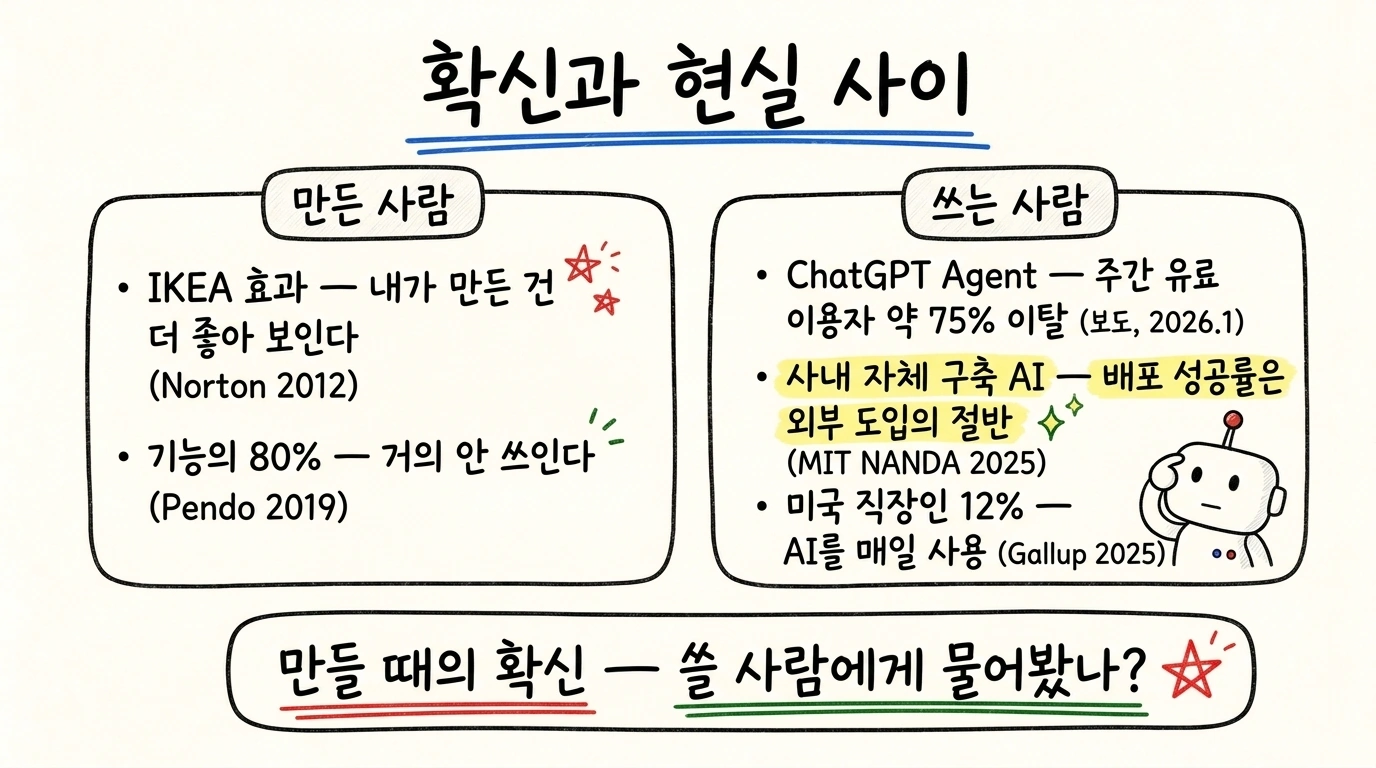
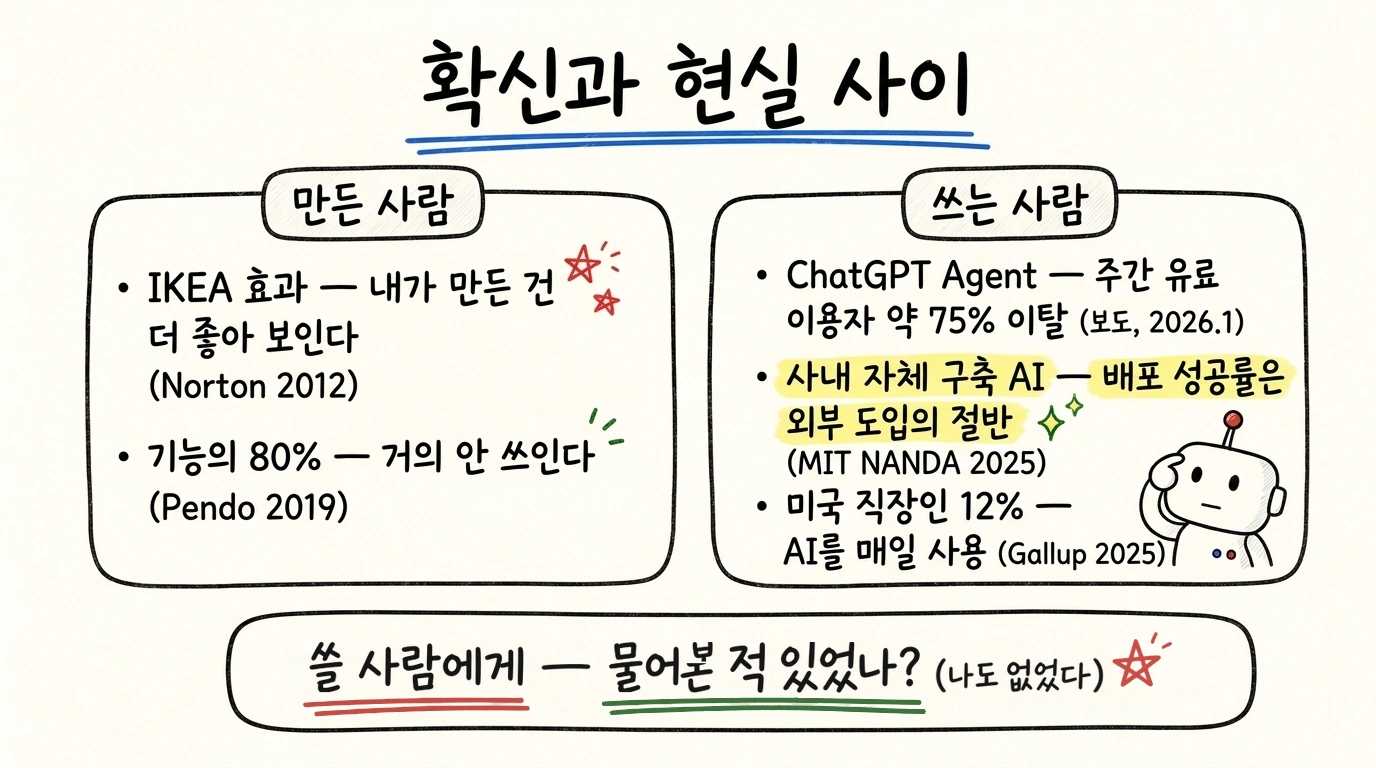
fix(ax-why-hard): patch fallback slide text locally while image quota is out
The image-model quota is exhausted until 2026-10-06, so slides
06/07/08/15/20/25 were fixed by glyph transplant: syllables cut from the
deck's own handwriting and composited with Pillow, no font rendering.
Remaining pending items are listed in the deck README.

Changed region(s): [[0.1875, 0.8125, 0.9062, 0.9375]]

diff --git a/presentations/ax-why-hard/index.html b/presentations/ax-why-hard/index.html
@@ -46,16 +46,16 @@ body{font-family:'Noto Sans KR','Malgun Gothic','Apple SD Gothic Neo',sans-serif
   <div class="slide"><img src="03-agent-charm.webp" alt="에이전트의 매력 — 작년: 가드레일·스캐폴드·시스템 프롬프트 덕지덕지, 올해: 모델이 알아서 잘함, 걷어낼수록 더 잘함. 모델이 좋아지면 같이 좋아진다. 모델은 알아서 좋아진다, 운영은 알아서 좋아지지 않는다" loading="lazy" /></div>
   <div class="slide"><img src="04-builder-joy.webp" alt="만들 때의 나 — 한 가지 문제에 푹 빠짐, 데모가 돌면 신남, 기능 하나 더 또 하나 더, 이 정도면 다들 쓰겠지. 나도 그랬다. 만드는 재미에 빠질 때 쓸 사람은 아직 안 보인다" loading="lazy" /></div>
   <div class="slide"><img src="05-divider-who-uses.webp" alt="섹션 ① 그런데, 누가 쓸까 — 만든 사람의 확신, 쓰는 사람의 현실" loading="lazy" /></div>
-  <div class="slide"><img src="06-mirror-questions.webp" alt="손 들어보기 — 동료가 만든 에이전트를 지난 한 달 써봤다, 배워야 쓰는 사내 시스템을 자발적으로 써봤다, 빅테크 에이전트를 매일 쓴다. 귀찮아서·어디에 쓸지 몰라서. 빅테크 것도 안 쓰는데 내 것은 왜 쓸까" loading="lazy" /></div>
-  <div class="slide"><img src="07-belief-vs-reality.webp" alt="확신과 현실 사이 — 만든 사람: IKEA 효과(Norton 2012), 기능의 80%는 거의 안 쓰임(Pendo 2019). 쓰는 사람: ChatGPT Agent 주간 유료 이용자 약 75% 이탈(보도 2026.1), 사내 자체 구축 AI의 배포 성공률은 외부 도입의 절반(MIT NANDA 2025), 미국 직장인 12%만 AI를 매일 사용(Gallup 2025). 만들 때의 확신, 쓸 사람에게 물어봤나" loading="lazy" /></div>
-  <div class="slide"><img src="08-three-numbers.webp" alt="숫자로 보면 — 2027년까지 취소될 에이전틱 AI 프로젝트 40%+(Gartner), 실제 배포 조직 17%(Gartner 2026), 워크플로우를 재설계한 기업 21%(McKinsey 2025). 만드는 건 빨라졌고 일하는 방식은 천천히 바뀐다 (포스트잇: 내 에이전트 — 누가, 매일 쓸까?)" loading="lazy" /></div>
+  <div class="slide"><img src="06-mirror-questions.webp" alt="손 들어보기 — 동료가 만든 에이전트를 지난 한 달 써봤다, 배워야 쓰는 사내 시스템을 자발적으로 써봤다, 빅테크 에이전트를 매일 쓴다. 귀찮아서·어디에 쓸지 몰라서. 빅테크 것도 안 쓰는데 내 것은 어떨까?" loading="lazy" /></div>
+  <div class="slide"><img src="07-belief-vs-reality.webp" alt="확신과 현실 사이 — 만든 사람: IKEA 효과(Norton 2012), 기능의 80%는 거의 안 쓰임(Pendo 2019). 쓰는 사람: ChatGPT Agent 주간 유료 이용자 약 75% 이탈(보도 2026.1), 사내 자체 구축 AI의 배포 성공률은 외부 도입의 절반(MIT NANDA 2025), 미국 직장인 12%만 AI를 매일 사용(Gallup 2025). 쓸 사람에게 물어본 적 있었나? (나도 없었다)" loading="lazy" /></div>
+  <div class="slide"><img src="08-three-numbers.webp" alt="숫자로 보면 — 2027년까지 취소될 에이전틱 AI 프로젝트 40%+(Gartner 2025), 실제 배포 조직 17%(Gartner 2026), 일부 워크플로우를 재설계한 기업 21%(McKinsey 2025). 만드는 건 빨라졌고 일하는 방식은 천천히 바뀐다 (포스트잇: 내 에이전트 — 누가, 매일 쓸까?)" loading="lazy" /></div>
   <div class="slide"><img src="09-divider-order.webp" alt="섹션 ② 순서가 뒤집혔다 — 서비스부터 만들 때 생기는 일" loading="lazy" /></div>
   <div class="slide"><img src="10-ax-not-system.webp" alt="AX ≠ 시스템 — 원래 순서: 일하는 방식, 프로세스로 굳음, 시스템. 지금 순서: 서비스부터, 프로세스는 나중에, 사람이 적응. 그릇보다 담을 일이 먼저" loading="lazy" /></div>
   <div class="slide"><img src="11-unsettled-process.webp" alt="굳지 않은 프로세스를 부으면 — 프로세스 변경, 수정 요청, 수정이 못 따라감, 방치의 순환. 프로세스는 AI 속도로, 서비스는 배포 주기로" loading="lazy" /></div>
   <div class="slide"><img src="12-history.webp" alt="이 영화, 우리 회사에서 이미 봤다 — 개인 PC, 조직별 개발서버, 주인 없는 서버, 1서비스 1운영자, SE·인프라 조직. 에이전트는 지금 조직별 개발서버 단계. 출시는 눈에 띄고 유지는 눈에 안 띈다" loading="lazy" /></div>
   <div class="slide"><img src="13-banner-midpoint.webp" alt="배포는 쉽고, 운영은 어렵다 — 론칭 뒤의 1년, 진짜 난이도는 거기에 (포스트잇: 내 에이전트 — 1년 뒤엔 누가 운영하지?)" loading="lazy" /></div>
   <div class="slide"><img src="14-divider-ops.webp" alt="섹션 ③ 운영의 두 벽 — 권한 · 지식" loading="lazy" /></div>
-  <div class="slide"><img src="15-permission.webp" alt="권한 — 운영의 첫 번째 벽. 에이전트는 누구 권한으로 읽고 쓰나 — 사용자별 위임, 문서별 접근 제어, 행동 승인, 감사 로그, 토큰 범위와 만료. 열면 사고(Replit·Lovable 앱 10% 데이터 노출), 못 열면 소수만 쓰는 도구. AI 관련 침해 조직 97% 접근 통제 없음(IBM 2025)" loading="lazy" /></div>
+  <div class="slide"><img src="15-permission.webp" alt="권한 — 운영의 첫 번째 벽. 에이전트는 누구 권한으로 읽고 쓰나 — 사용자별 위임, 문서별 접근 제어, 행동 승인, 감사 로그, 토큰 범위와 만료. 열면 사고(Replit 운영 DB 삭제, Lovable 앱 10% 데이터 노출), 못 열면 소수만 쓰는 도구. AI 관련 침해 조직 97% 적절한 접근 통제 부재(IBM 2025)" loading="lazy" /></div>
   <div class="slide"><img src="16-voc-case.webp" alt="SWDP VOC 사례 — 변화가 빠른 서비스에서. FAQ·지식 갱신 요청, 가이드가 노이즈, 검토 폭증, 채택 실패. AI가 이미 아는 질문과 사람이 해야 하는 일 사이의 얇은 KB 구간. 굳지 않은 일을 문서로 굳혔다" loading="lazy" /></div>
   <div class="slide"><img src="17-llm-wiki-five.webp" alt="LLM Wiki가 어려운 다섯 가지 — 누가 쓰나, 언제 낡나, 무엇이 정답인가, 어디까지 넣나, 누가 지우나. 쓰는 사람은 있어도 지우는 사람은 없다" loading="lazy" /></div>
   <div class="slide"><img src="18-bad-knowledge.webp" alt="쌓인다고 좋은 게 아니다 — 낡은 문서끼리 충돌(DRAGged into Conflicts), 무관한 맥락, Lost in the Middle, PoisonedRAG. 좋은 모델 + 나쁜 지식 = 자신 있는 오답" loading="lazy" /></div>
@@ -65,7 +65,7 @@ body{font-family:'Noto Sans KR','Malgun Gothic','Apple SD Gothic Neo',sans-serif
   <div class="slide"><img src="22-paved-already.webp" alt="되는 곳은 이미 길이 나 있었다 — 코딩 에이전트는 git·PR·CI·테스트가, 고객 상담(Intercom Fin)은 상담 프로세스와 해결률 지표가 먼저. 에이전트가 해내는 작업 길이는 약 7개월마다 2배(METR 2025). 에이전트는 이미 난 길 위에서 달린다" loading="lazy" /></div>
   <div class="slide"><img src="23-graduation.webp" alt="졸업 순서 — 개인 하네스, 팀 워크플로우, 서비스. 굳히는 건 절차가 아니라 계약(입출력·권한·검증·주인). 그 아래 공통으로 깔아야 할 권한·인증·감사 플랫폼. 권한은 서비스마다 만들 게 아니라 길 아래 깔려 있어야" loading="lazy" /></div>
   <div class="slide"><img src="24-read-dont-feed.webp" alt="먹이지 말고 읽혀라 — 사람이 KB를 써서 넣는 대신 라이브 데이터·변경 이력·티켓을 그때그때 조회. AI를 먹이지 말고 일의 흔적을 읽혀라 (포스트잇: 내 에이전트 — 사람이 먹이나, 일에서 읽나?)" loading="lazy" /></div>
-  <div class="slide"><img src="25-checklist.webp" alt="내 에이전트에 대입해보기 — 쓸 사람이 먼저 달라고 했나로 시작하는 일곱 가지 사전 점검과 운영 계약(등록·소유자·평가·섭종 계획). 1년 운영할 그림이 그려질 때 그때 만들자" loading="lazy" /></div>
+  <div class="slide"><img src="25-checklist.webp" alt="내 에이전트에 대입해보기 — 쓸 사람이 먼저 달라고 했나로 시작하는 일곱 가지 사전 점검과 운영 계약(등록·소유자·평가·섭종 계획). 만들면서 1년 운영할 그림도 같이" loading="lazy" /></div>
   <div class="slide"><img src="26-closing.webp" alt="정리하며 — 쓸 사람이 먼저, 길이 나면 포장하자, 지식은 먹이지 말고 읽히자. 다시, 내 에이전트: 누가 매일 쓸까, 1년 뒤엔 누가 운영하지, 지식은 누가 갱신하지, 사람이 먹이나 일에서 읽나. 바람의나라는 쓰는 사람이 있어서 30년 — 내 에이전트는 1년 뒤? 론칭할 때 섭종 계획도 같이" loading="lazy" /></div>
   <div class="slide"><img src="27-appendix-workflow-vs-agent.webp" alt="부록 — Workflow vs Agent — 코드가 다음 단계를 정하면 Workflow, LLM이 도구·루프·목표로 다음 단계를 정하면 Agent. 판별 3문항과 agent washing(Gartner 2025). 루프가 있어야 에이전트" loading="lazy" /></div>
 </div>
